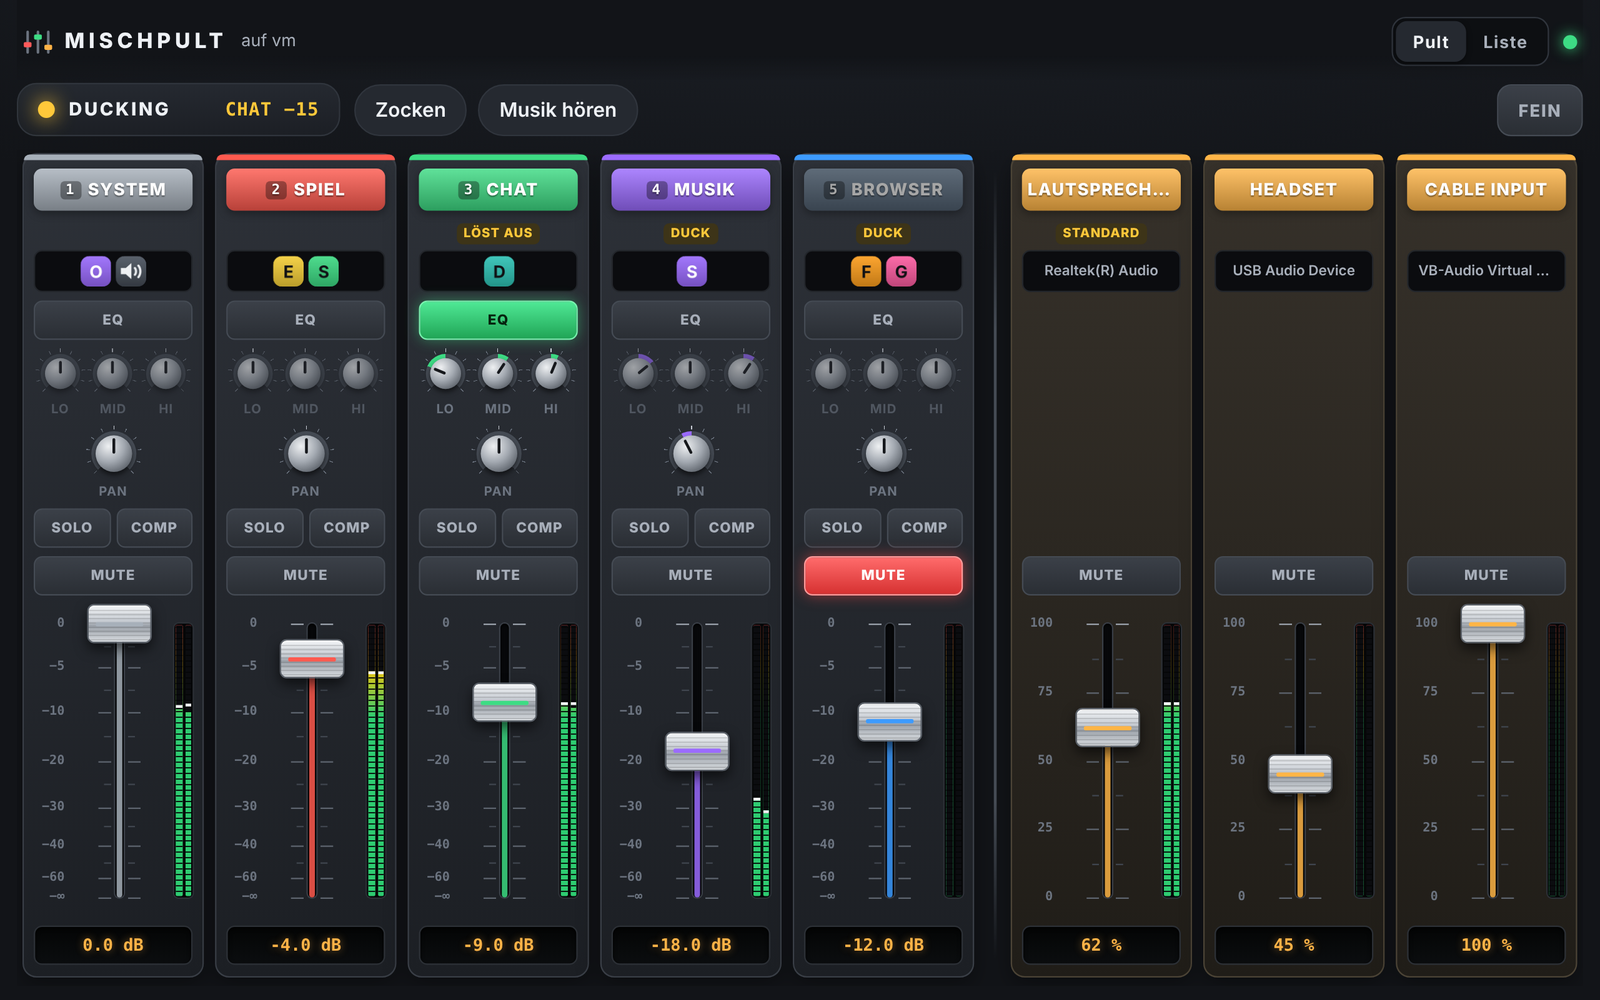
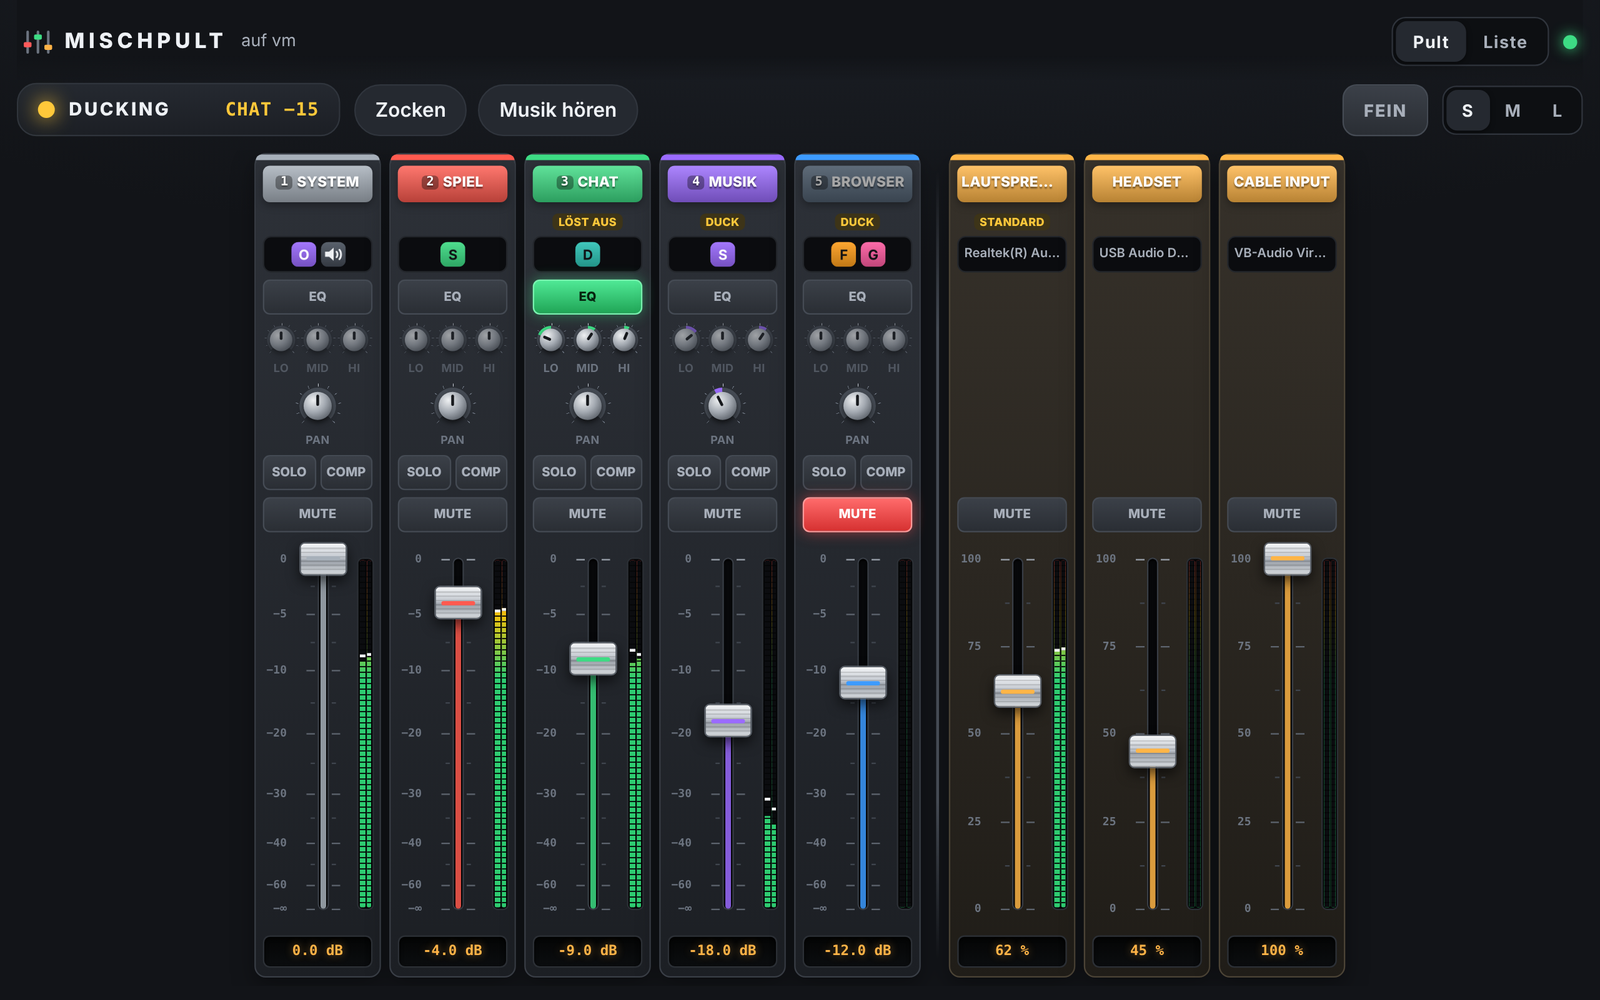
Mischpult 4.5.2 – schmale Kanäle
Fernbedienung: Kanäle im Pult schmal (Standard), Breite oben rechts mit S, M, L.

diff --git a/assets/remote.html b/assets/remote.html
@@ -134,6 +134,40 @@ body.pultview .chip{padding:9px 14px}
 .narrow .pan .kw{width:38px;height:38px}
 .narrow .pan .kw::before{-webkit-mask:radial-gradient(circle,transparent 16px,#000 16.5px);mask:radial-gradient(circle,transparent 16px,#000 16.5px)}
 .narrow .pan .ring{width:30px;height:30px}
+/* 4.5.2 schmale Kanaele (S) */
+#pult.thin{gap:6px}
+.thin .strip{padding:8px 5px 6px;gap:5px;border-radius:8px}
+.thin .strip.o1{margin-left:14px}
+.thin .strip.o1::after{left:-10px}
+.thin .plate{font-size:10px;letter-spacing:.02em;padding:6px 3px;border-radius:5px}
+.thin .plate em{min-width:12px;padding:0 2px;margin-right:3px;font-size:9px}
+.thin .sb{height:14px;line-height:14px}
+.thin .sb span{font-size:8px;padding:1px 4px;letter-spacing:.02em}
+.thin .sapps{height:26px;padding:2px}
+.thin .sapps img{width:18px;height:18px;border-radius:4px}
+.thin .sapps .dev,.thin .sapps .none,.thin .sapps .more{font-size:9px;padding:0 2px}
+.thin .led{font-size:9px;letter-spacing:0;padding:6px 0;border-radius:5px}
+.thin .row2{gap:3px}
+.thin .kn label{font-size:8px;letter-spacing:.02em}
+.thin .kn .kw{width:25px;height:25px}
+.thin .kn .kw::before{-webkit-mask:radial-gradient(circle,transparent 10.5px,#000 11px);mask:radial-gradient(circle,transparent 10.5px,#000 11px)}
+.thin .kn .ring{width:20px;height:20px;padding:2px}
+.thin .pan .kw{width:33px;height:33px}
+.thin .pan .kw::before{-webkit-mask:radial-gradient(circle,transparent 14px,#000 14.5px);mask:radial-gradient(circle,transparent 14px,#000 14.5px)}
+.thin .pan .ring{width:26px;height:26px;padding:3px}
+.thin .fz{gap:2px}
+.thin .scale{width:17px}
+.thin .scale span{font-size:8px}
+.thin .fcap{width:34px;margin-left:-17px;height:24px;margin-top:-12px;border-radius:4px}
+.thin .fcap::after{left:4px;right:4px}
+.thin .tk{width:24px;margin-left:-12px;background:linear-gradient(90deg,#5d646e 0 6px,transparent 6px 18px,#5d646e 18px)}
+.thin .tk.m{width:18px;margin-left:-9px;background:linear-gradient(90deg,#3f454e 0 3px,transparent 3px 15px,#3f454e 15px)}
+.thin .tk.z{background:linear-gradient(90deg,#9aa1ab 0 6px,transparent 6px 18px,#9aa1ab 18px)}
+.thin .vm{width:10px;gap:1px}
+.thin .lcd{font-size:10px;padding:5px 0;border-radius:5px}
+#wseg{flex:none}
+#wseg button{padding:7px 11px}
+body:not(.pultview) #wseg{display:none}
 .ghost{visibility:hidden}
 .fz{flex:1;display:flex;gap:3px;min-height:150px;position:relative;touch-action:none;user-select:none;-webkit-user-select:none}
 .scale{position:relative;width:22px;flex:none}
@@ -210,6 +244,7 @@ body.locked .led,body.locked .kn,body.locked .fz,body.locked .fn{opacity:.45;poi
       <div id="topWrap"><div class="top" id="top"></div></div>
       <div id="scenesWrap" hidden><div class="label">SZENEN</div><div class="scenes" id="scenes"></div></div>
       <button id="fine" title="Fader und Drehregler bewegen sich 4× langsamer, EQ in 0,1-dB-Schritten">FEIN</button>
+      <div class="seg" id="wseg" title="Breite der Kanäle: schmal, mittel, breit"><button data-w="1">S</button><button data-w="2">M</button><button data-w="3">L</button></div>
     </div>
     <div class="label" id="chLabel">KANÄLE</div>
     <div id="rows"></div>
@@ -488,7 +523,7 @@ body.locked .led,body.locked .kn,body.locked .fz,body.locked .fn{opacity:.45;poi
   }
 
   // ================================================================ 4.5 Pult-Ansicht (Tablet)
-  var view = '', pultOk = true, drag = 0, dragT = 0, sheetId = null, sheetMode = '', toastT = null, fine = false, holds = {};
+  var view = '', pultOk = true, drag = 0, dragT = 0, sheetId = null, sheetMode = '', toastT = null, fine = false, holds = {}, widthMode = 1;
   try { view = localStorage.getItem('mp-view') || ''; } catch (e) {}
   if (view !== 'pult' && view !== 'liste') view = (Math.min(innerWidth, innerHeight) >= 600 || innerWidth >= 900) ? 'pult' : 'liste';
   var segs = document.querySelectorAll('#seg button');
@@ -517,8 +552,9 @@ body.locked .led,body.locked .kn,body.locked .fz,body.locked .fn{opacity:.45;poi
     var p = $('#pult');
     if (view !== 'pult' || p.hidden || $('#main').hidden) return;
     var n = p.children.length || 1, W = p.clientWidth, extra = p.querySelector('.o1') ? 18 : 0;
-    var sw = Math.max(104, Math.min(180, Math.floor((W - 4 - extra - (n - 1) * 8) / n)));
-    if (p._sw !== sw) { p._sw = sw; p.style.setProperty('--sw', sw + 'px'); p.classList.toggle('narrow', sw < 126); }
+    // 4.5.2: S = schmal (Standard), M = mittel, L = so breit, dass alles den Bildschirm fuellt
+    var sw = widthMode === 3 ? Math.max(104, Math.min(180, Math.floor((W - 4 - extra - (n - 1) * 8) / n))) : widthMode === 2 ? 116 : 90;
+    if (p._sw !== sw) { p._sw = sw; p.style.setProperty('--sw', sw + 'px'); p.classList.toggle('narrow', sw < 126); p.classList.toggle('thin', sw < 100); }
     var h = Math.max(470, Math.floor(window.innerHeight - (p.getBoundingClientRect().top + window.scrollY) - 10));
     if (p._h !== h) { p._h = h; p.style.height = h + 'px'; }
   }
@@ -838,6 +874,15 @@ body.locked .led,body.locked .kn,body.locked .fz,body.locked .fn{opacity:.45;poi
       Array.prototype.forEach.call(document.querySelectorAll('#sheetApps .fn[data-f^="eq"]'), function (e) { e.classList.toggle('off', !state.eqok); });
     }
   }
+  var wsegs = document.querySelectorAll('#wseg button');
+  function setWidth(w) {
+    widthMode = w === 2 || w === 3 ? w : 1; store('mp-width', String(widthMode));
+    Array.prototype.forEach.call(wsegs, function (b) { b.classList.toggle('on', +b.getAttribute('data-w') === widthMode); });
+    $('#pult')._sw = 0; layout();
+  }
+  Array.prototype.forEach.call(wsegs, function (b) { b.onclick = function () { if (+b.getAttribute('data-w') !== widthMode) { setWidth(+b.getAttribute('data-w')); vib(); } }; });
+  try { widthMode = +localStorage.getItem('mp-width') || 1; } catch (e) {}
+  setWidth(widthMode);
   var fineBtn = $('#fine');
   function setFine(on) { fine = on; store('mp-fine', on ? '1' : '0'); fineBtn.classList.toggle('on', on); }
   fineBtn.onclick = function () { setFine(!fine); vib(); toast(fine ? 'FEIN: Fader und Drehregler bewegen sich 4× langsamer, EQ in 0,1-dB-Schritten.' : 'FEIN aus.'); };

diff --git a/src/UI/WhatsNew.cs b/src/UI/WhatsNew.cs
@@ -16,7 +16,8 @@ namespace Mischpult.UI
                 "EQ, Balance und SOLO am Handy", "Pro Kanal LO, MID und HI drehen (zweimal tippen = Mitte), EQ-Taste, PAN, SOLO und COMP – wie am PC.",
                 "Apps im Pult", "Auf die App-Symbole eines Kanals tippen – unten erscheinen die Apps und lassen sich einzeln regeln.",
                 "Alle Ausgänge am Handy", "Rechts im Pult alle Ausgabegeräte – Lautsprecher, Kopfhörer, HDMI – mit Lautstärke, MUTE und Pegel (4.5.1).",
-                "Fein einstellen", "Taste FEIN: Fader und Drehregler bewegen sich 4× langsamer, EQ in 0,1-dB-Schritten. Wert unter dem Fader antippen = Lautstärke, EQ und PAN in kleinen Schritten (4.5.1)." },
+                "Fein einstellen", "Taste FEIN: Fader und Drehregler bewegen sich 4× langsamer, EQ in 0,1-dB-Schritten. Wert unter dem Fader antippen = Lautstärke, EQ und PAN in kleinen Schritten (4.5.1).",
+                "Schmale Kanäle", "Oben rechts S, M, L: wie breit die Kanäle im Pult sind. S (schmal) ist Standard – so passen mehr Kanäle auf den Bildschirm (4.5.2)." },
             new[] { "Fernbedienung vom Handy",
                 "Fernbedienung im Browser", "Handy, Tablet oder ein anderer PC im selben WLAN öffnen eine Adresse im Browser – keine App nötig – und regeln Kanäle, Ausgang und MUTE. Verbinden per QR-Code, nur im Heimnetz und nur mit Zugangscode.",
                 "Szenen und DUCKING am Handy", "Szenen antippen und DUCKING an- und ausschalten – mit Anzeige, wer gerade auslöst.",

diff --git a/src/UI/Windows400y.cs b/src/UI/Windows400y.cs
@@ -371,6 +371,7 @@ namespace Mischpult.UI
 
         internal static readonly string[][] Chronicle =
         {
+            new[] { "4.5.2", "Fernbedienung: schmale Kanäle im Pult (Standard) – oben rechts S, M, L für die Breite. Schmal passen mehr Kanäle auf den Bildschirm." },
             new[] { "4.5.1", "Fernbedienung: alle Ausgänge (Lautsprecher, Kopfhörer, HDMI …) mit Lautstärke, MUTE und Pegel. Taste FEIN (Fader und Drehregler 4× langsamer, EQ in 0,1-dB-Schritten), Wert antippen = fein einstellen in 0,1-dB-Schritten. Pult feiner gezeichnet: Stereo-LED-Pegel mit Spitzenwert, Skalenstriche, Kanalnummern." },
             new[] { "4.5", "Fernbedienung als Pult fürs Tablet: senkrechte Fader mit Skala und Pegelanzeige, pro Kanal EQ (LO, MID, HI) mit EQ-Taste, PAN, SOLO und COMP, Apps per Tipp auf die Symbole. Umschalter „Pult | Liste“, am Handy bleibt die Liste. Beides unter der Fernbedienung abschaltbar." },
             new[] { "4.4.1", "Fernbedienung: zuverlässigere Verbindung mit Handy-Browsern, Fenster „Fernbedienung“ zeigt die letzten Verbindungsversuche und den Zustand der Windows-Firewall – mit Knopf „Firewall freigeben“ (nur fürs eigene Heimnetz). Knopf „Am PC testen“, Protokoll fernbedienung.log." },

diff --git a/src/UI/MixerForm.Features420.cs b/src/UI/MixerForm.Features420.cs
@@ -446,7 +446,7 @@ namespace Mischpult.UI
         internal static readonly Dictionary<string, string> NewsRows420 = new Dictionary<string, string>
         {
             // 4.5
-            { "Apps im Pult", "Lautstärke einzelner Apps am Handy" }, { "Fein einstellen", "Pult-Ansicht fürs Tablet" },
+            { "Apps im Pult", "Lautstärke einzelner Apps am Handy" }, { "Fein einstellen", "Pult-Ansicht fürs Tablet" }, { "Schmale Kanäle", "Pult-Ansicht fürs Tablet" },
             // 4.3
             { "Plattenspieler", "Animierte Deko" },
             // 4.2

diff --git a/src/Program.cs b/src/Program.cs
@@ -39,7 +39,7 @@ namespace Mischpult
         /// <summary>4.1: zusaetzliche Argumente beim Neustart (z. B. "--abgesichert").</summary>
         public static string RestartArgs;
         public const string Author = "D3r_Jan";
-        public const string Version = "4.5.1";
+        public const string Version = "4.5.2";
         /// <summary>4.1: GitHub-Projekt fuer "online nach Updates suchen" ("Benutzer/Projekt", leer = keins eingebaut).</summary>
         public const string UpdateRepoDefault = "D3rJan-Projekt/Mischpult";
 

diff --git a/README.md b/README.md
@@ -66,7 +66,7 @@ Windows hat nur einen kleinen Lautstärkemixer. Das **Mischpult** macht daraus e
 
 Unter **OPTIONEN → Fenster & Verbindungen → „Fernbedienung im Browser“** einschalten und den **QR-Code** mit dem Handy scannen – fertig. Im Browser des Handys (oder Tablets, oder eines anderen PCs im selben WLAN) erscheinen alle Kanäle mit Schieber, MUTE und Pegel, dazu die Apps pro Kanal, die Szenen und die DUCKING-Taste mit „wer löst aus“. Eine App braucht es nicht.
 
-**Auf dem Tablet** (neu in 4.5) erscheint die Fernbedienung als **Pult**: senkrechte Fader mit Skala und Pegel, pro Kanal **EQ** (LO, MID, HI – hoch/runter ziehen, zweimal tippen = Mitte) mit EQ-Taste, **PAN**, **SOLO**, **COMP** und **MUTE**. Tipp auf die App-Symbole eines Kanals = Apps einzeln regeln. Oben rechts zwischen **„Pult“** und **„Liste“** umschalten. Rechts im Pult stehen **alle Ausgänge** (Lautsprecher, Kopfhörer, HDMI …) mit Lautstärke, MUTE und Pegel. Abschaltbar unter der Fernbedienung: „Pult-Ansicht fürs Tablet“, „Alle Ausgänge am Handy“ und „EQ, Balance und SOLO am Handy“.
+**Auf dem Tablet** (neu in 4.5) erscheint die Fernbedienung als **Pult**: senkrechte Fader mit Skala und Pegel, pro Kanal **EQ** (LO, MID, HI – hoch/runter ziehen, zweimal tippen = Mitte) mit EQ-Taste, **PAN**, **SOLO**, **COMP** und **MUTE**. Tipp auf die App-Symbole eines Kanals = Apps einzeln regeln. Oben rechts zwischen **„Pult“** und **„Liste“** umschalten. Rechts im Pult stehen **alle Ausgänge** (Lautsprecher, Kopfhörer, HDMI …) mit Lautstärke, MUTE und Pegel. Oben rechts **S, M, L** für die Breite der Kanäle – S (schmal) ist Standard. Abschaltbar unter der Fernbedienung: „Pult-Ansicht fürs Tablet“, „Alle Ausgänge am Handy“ und „EQ, Balance und SOLO am Handy“.
 
 ![Tablet als Mischpult](bilder/tablet-pult.png)
 
@@ -189,6 +189,7 @@ dotnet build -c Release -p:FrameworkPathOverride=/usr/lib/mono/4.8-api
 
 | Version | Neu |
 |---|---|
+| **4.5.2** | Fernbedienung: schmale Kanäle im Pult (Standard), Breite oben rechts mit S, M, L |
 | **4.5.1** | Fernbedienung: alle Ausgänge mit Lautstärke, MUTE und Pegel · Taste FEIN und Feineinstellung in 0,1-dB-Schritten (Wert antippen) · Stereo-LED-Pegel, Skalenstriche, Kanalnummern |
 | **4.5** | Tablet als Mischpult: senkrechte Fader mit Skala und Pegel, pro Kanal EQ (LO, MID, HI) mit EQ-Taste, PAN, SOLO und COMP, Apps per Tipp – Umschalter „Pult \| Liste“, alles abschaltbar |
 | **4.4.1** | Fernbedienung zuverlässiger: robustere Verbindung, letzte Verbindungsversuche, Firewall-Prüfung mit „Firewall freigeben“, „Am PC testen“ |

diff --git a/.github/release-notes.md b/.github/release-notes.md
@@ -1,6 +1,10 @@
-**Mischpult 4.5.1** – App-Audio-Mixer für Windows, made by D3r_Jan
+**Mischpult 4.5.2** – App-Audio-Mixer für Windows, made by D3r_Jan
 
 **Herunterladen:** unten bei „Assets“ auf `Mischpult.exe` klicken, dann starten – das Ein-Klick-Fenster fragt: installieren oder nur ausprobieren. Ein Update geht genauso: neue EXE starten → „Aktualisieren“, deine Einstellungen bleiben.
+
+### Neu in 4.5.2 – schmale Kanäle
+- Im Pult auf dem Tablet sind die Kanäle jetzt **schmal** wie an einem echten Mischpult – so passen mehr auf den Bildschirm.
+- Oben rechts neben FEIN die Breite wählen: **S** (schmal, Standard), **M** (mittel), **L** (füllt den Bildschirm). Das Tablet merkt sich die Wahl.
 
 ### Neu in 4.5.1 – alle Ausgänge und feiner einstellen
 - **Alle Ausgänge** in der Fernbedienung: Lautsprecher, Kopfhörer, HDMI, virtuelle Kabel – mit Lautstärke, MUTE und Pegel. Der Standard-Ausgang trägt „STANDARD“. Im Pult rechts wie am PC. Schalter „Alle Ausgänge am Handy“.
